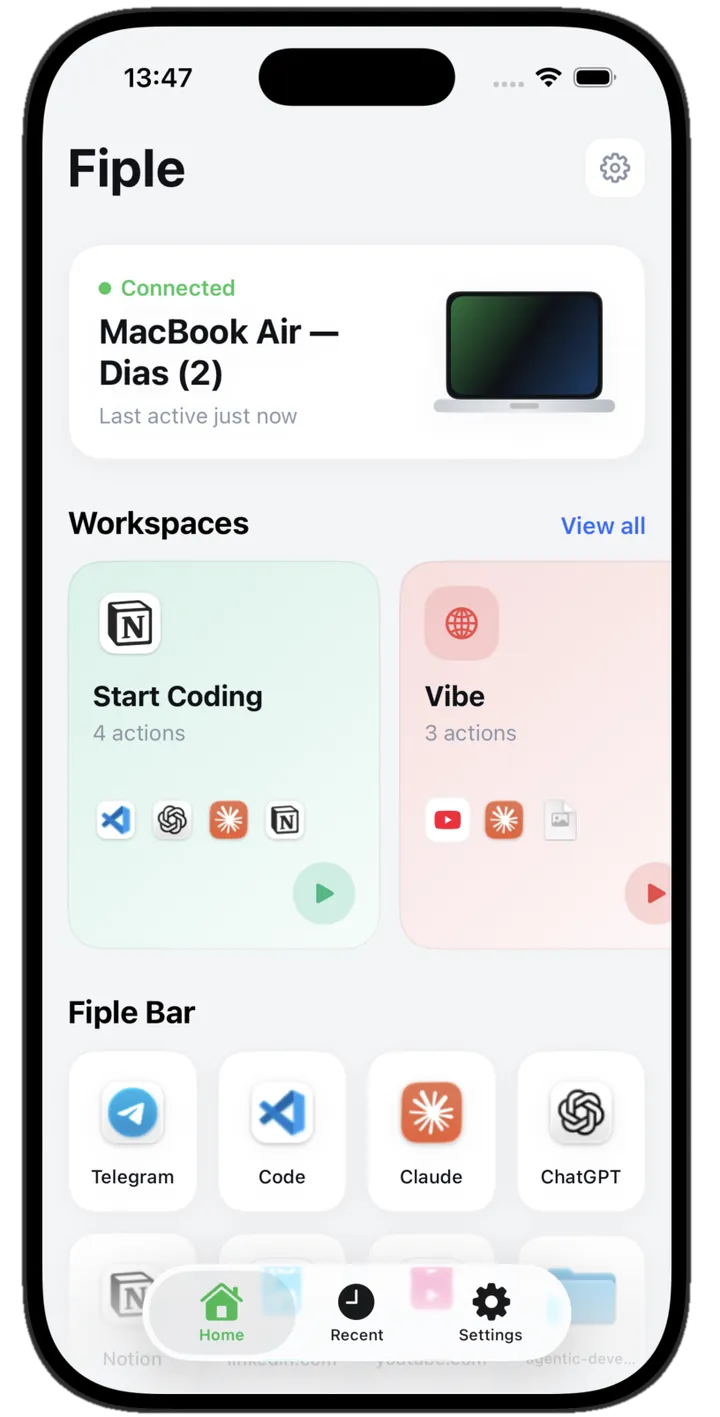
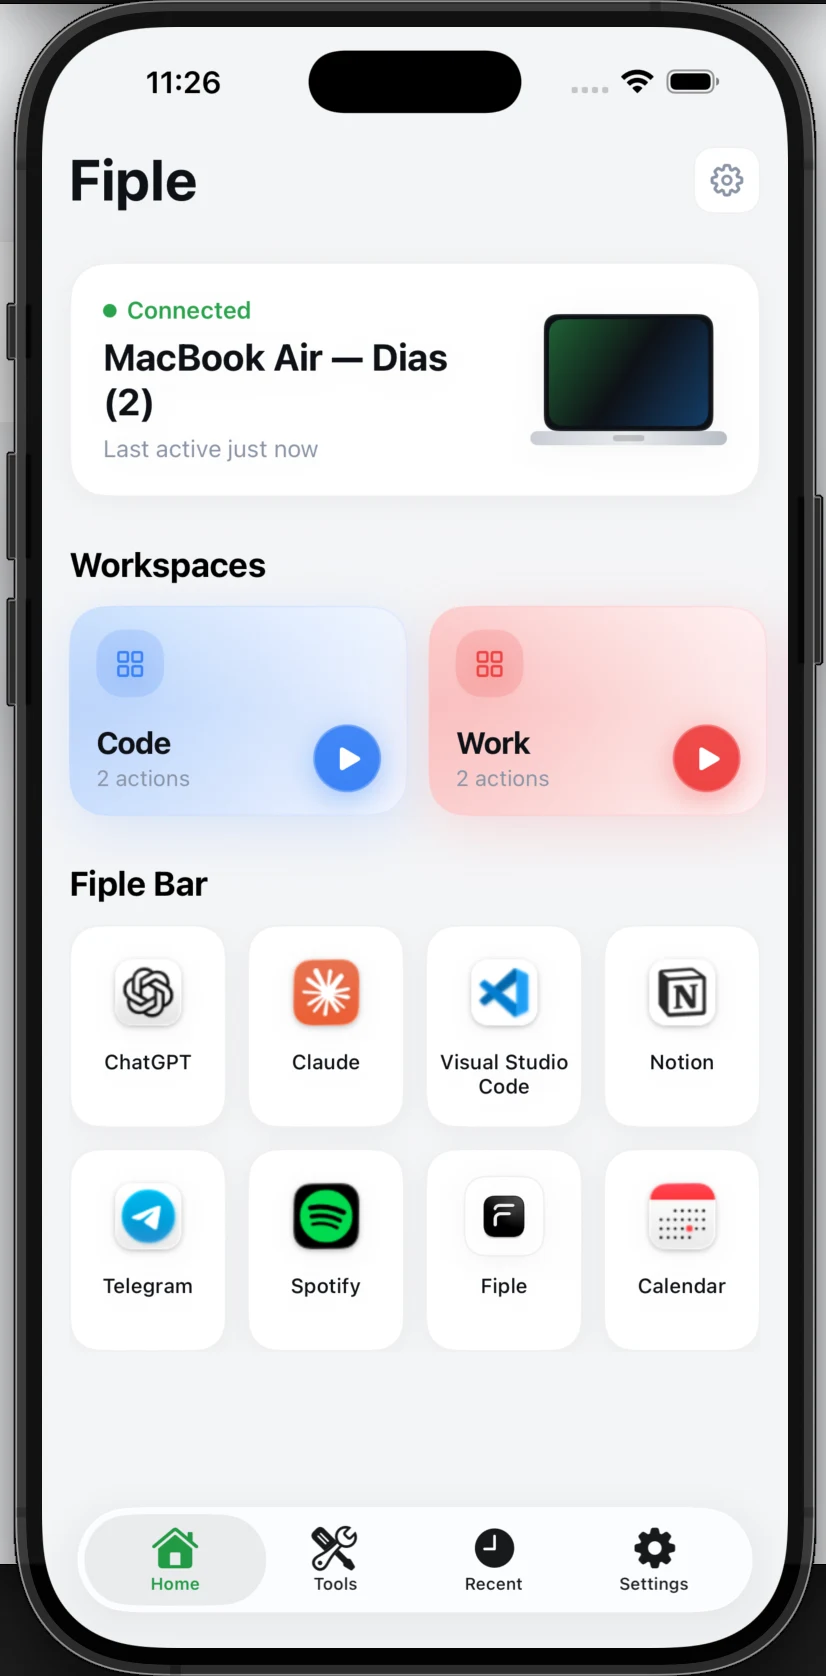
feat(assets): refresh app screenshots on the landing
New iPhone home (Code/Work workspaces, Tools tab) and Mac Workspaces
window with Terminal and Smart Trash in the sidebar. The phone shot has
no alpha cutout, so the hero image gets rounded corners to keep the
drop shadow on the device silhouette. Alt texts updated to match.

diff --git a/src/sections/HeroSection.tsx b/src/sections/HeroSection.tsx
@@ -63,8 +63,8 @@ export function HeroSection() {
         <div className="relative animate-float [animation-delay:200ms]">
           <img
             src={appHome}
-            alt="Fiple iPhone app, connected MacBook Air, the Start Coding and Vibe workspaces, and the Fiple Bar"
-            className="relative z-[1] w-[286px] max-sm:w-[260px] [filter:drop-shadow(0_2px_6px_rgba(11,11,15,0.10))_drop-shadow(0_30px_45px_rgba(11,11,15,0.22))]"
+            alt="Fiple iPhone app, connected MacBook Air, the Code and Work workspaces, and the Fiple Bar"
+            className="relative z-[1] w-[286px] rounded-[44px] max-sm:w-[260px] max-sm:rounded-[40px] [filter:drop-shadow(0_2px_6px_rgba(11,11,15,0.10))_drop-shadow(0_30px_45px_rgba(11,11,15,0.22))]"
             width={286}
             loading="eager"
           />

diff --git a/src/sections/MacShowcase.tsx b/src/sections/MacShowcase.tsx
@@ -28,7 +28,7 @@ export function MacShowcase() {
         <div className="overflow-hidden rounded-[14px] border border-line shadow-device max-sm:rounded-[10px]">
           <img
             src={appMac}
-            alt="Fiple for macOS, showing the for work and for emails workspaces, the Fiple Bar, Recent activity, and a connected iPhone"
+            alt="Fiple for macOS, showing the Code, Work, and Music workspaces, the Fiple Bar, the Terminal and Smart Trash tools, and Recent activity"
             className="block w-full"
             loading="lazy"
           />
